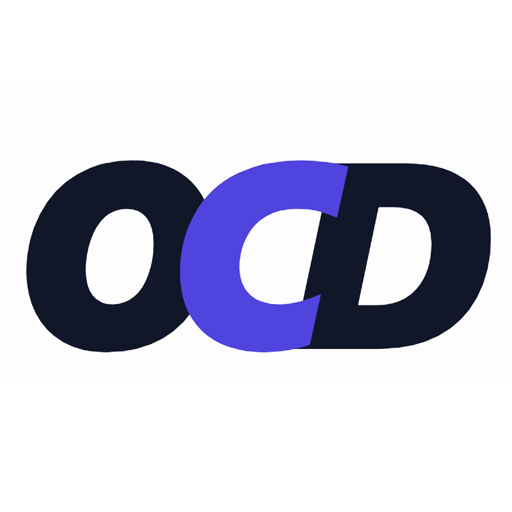
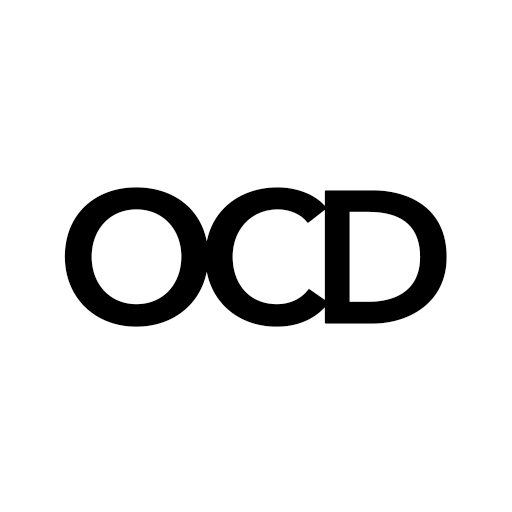
Add files via upload

Changed region(s): [[0.0312, 0.3125, 0.9688, 0.6875]]

diff --git a/index.html b/index.html
@@ -14,9 +14,6 @@
     <style>
         body { background: #FDFDFD; font-family: sans-serif; overflow-x: hidden; }
         .progress-fill { transition: width 3s linear; }
-        .ocd-logo { font-size: 7rem; line-height: 0.7; letter-spacing: -0.18em; font-weight: 900; display: inline-block; color: #0f172a; font-style: italic; }
-        .ocd-logo .letter-c { color: #4f46e5; position: relative; z-index: 10; }
-        
         #gatekeeper {
             position: fixed;
             inset: 0;
@@ -26,10 +23,8 @@
             flex-direction: column;
             align-items: center;
             justify-content: center;
-            text-align: center;
             padding: 2rem;
         }
-        
         .tab-scroll-area { display: flex; overflow-x: auto; padding-bottom: 14px; gap: 12px; scrollbar-width: none; }
         .tab-scroll-area::-webkit-scrollbar { display: none; }
     </style>
@@ -103,7 +98,6 @@
                     const standalone = window.matchMedia('(display-mode: standalone)').matches || window.navigator.standalone;
                     setIsInstalled(standalone);
                 };
-                
                 checkStatus();
                 localStorage.setItem('ocd_pwa_final', JSON.stringify(collections));
 
@@ -113,6 +107,7 @@
                 });
             }, [collections]);
 
+            // Robust Ping Engine
             useEffect(() => {
                 const checkAlarms = setInterval(() => {
                     const now = new Date();
@@ -123,11 +118,23 @@
                     Object.keys(newCollections).forEach(tab => {
                         newCollections[tab] = newCollections[tab].map(task => {
                             if (task.reminderTime === currentTime && !task.completed && !task.lastPingedAt) {
-                                if ("Notification" in window && Notification.permission === "granted") {
-                                    new Notification("OCD Reminder", { body: `Time to confirm: ${task.title}` });
+                                // Request permission if not already granted
+                                if (Notification.permission === "default") {
+                                    Notification.requestPermission();
+                                }
+                                if (Notification.permission === "granted") {
+                                    new Notification("OCD Anchor Reminder", { 
+                                        body: `Confirming: ${task.title}`,
+                                        icon: 'icon.png',
+                                        badge: 'icon.png'
+                                    });
                                 }
                                 dataChanged = true;
                                 return { ...task, lastPingedAt: currentTime };
+                            }
+                            // Reset ping for the next day
+                            if (task.lastPingedAt && task.lastPingedAt !== currentTime) {
+                                return { ...task, lastPingedAt: null };
                             }
                             return task;
                         });
@@ -139,7 +146,7 @@
 
             const handleInstall = async () => {
                 if (!deferredPrompt) {
-                    alert("Please open your browser menu and select 'Install App' or 'Add to Home Screen'.");
+                    alert("Please use Chrome Menu > Install App");
                     return;
                 }
                 deferredPrompt.prompt();
@@ -152,16 +159,12 @@
             if (!isInstalled) {
                 return (
                     <div id="gatekeeper">
-                        <div className="ocd-logo mb-6"><span>O</span><span className="letter-c">C</span><span className="letter-d">D</span></div>
+                        <img src="logo.png" className="w-48 mb-8" alt="OCD Logo" />
                         <h2 className="text-2xl font-black italic text-slate-900 mb-2">App Required.</h2>
                         <p className="text-slate-500 text-sm font-bold uppercase tracking-widest mb-10 px-6 leading-relaxed">
-                            For alarm pings and memory anchors to work, you must use the installed app version.
+                            For alarm pings and anchors to work, you must install the app.
                         </p>
-                        
-                        <button 
-                            onClick={handleInstall} 
-                            className="bg-indigo-600 text-white w-full max-w-xs py-5 rounded-[2rem] text-xs font-black uppercase shadow-2xl active:scale-95 transition-all"
-                        >
+                        <button onClick={handleInstall} className="bg-indigo-600 text-white w-full max-w-xs py-5 rounded-[2rem] text-xs font-black uppercase shadow-2xl">
                             Download & Install
                         </button>
                     </div>
@@ -170,14 +173,14 @@
 
             return (
                 <div className="max-w-md mx-auto min-h-screen pt-12 px-6 pb-20">
-                    <header className="mb-10 text-center">
-                        <div className="ocd-logo mb-4"><span>O</span><span className="letter-c">C</span><span className="letter-d">D</span></div>
+                    <header className="mb-10 text-center flex flex-col items-center">
+                        <img src="logo.png" className="w-40 mb-4" alt="OCD Logo" />
                         <h1 className="text-2xl font-black italic text-slate-900">Anchors.</h1>
                     </header>
 
                     <div className="tab-scroll-area mb-8">
                         {Object.keys(collections).map(tab => (
-                            <button key={tab} onClick={() => setActiveTab(tab)} className={`px-6 py-3 rounded-full text-[11px] font-black uppercase border whitespace-nowrap ${activeTab === tab ? 'bg-indigo-600 text-white border-indigo-700' : 'bg-slate-50 text-slate-400 border-slate-100'}`}>{tab}</button>
+                            <button key={tab} onClick={() => setActiveTab(tab)} className={`px-6 py-3 rounded-full text-[11px] font-black uppercase border whitespace-nowrap ${activeTab === tab ? 'bg-indigo-600 text-white border-indigo-700 shadow-md' : 'bg-slate-50 text-slate-400 border-slate-100'}`}>{tab}</button>
                         ))}
                     </div>
 
@@ -207,7 +210,7 @@
                                 }}
                                 onDelete={id => setCollections({...collections, [activeTab]: collections[activeTab].filter(i => i.id !== id)})}
                                 onUpdateReminder={(id, time) => {
-                                    const updated = collections[activeTab].map(t => t.id === id ? { ...t, reminderTime: time } : t);
+                                    const updated = collections[activeTab].map(t => t.id === id ? { ...t, reminderTime: time, lastPingedAt: null } : t);
                                     setCollections({ ...collections, [activeTab]: updated });
                                 }}
                             />
